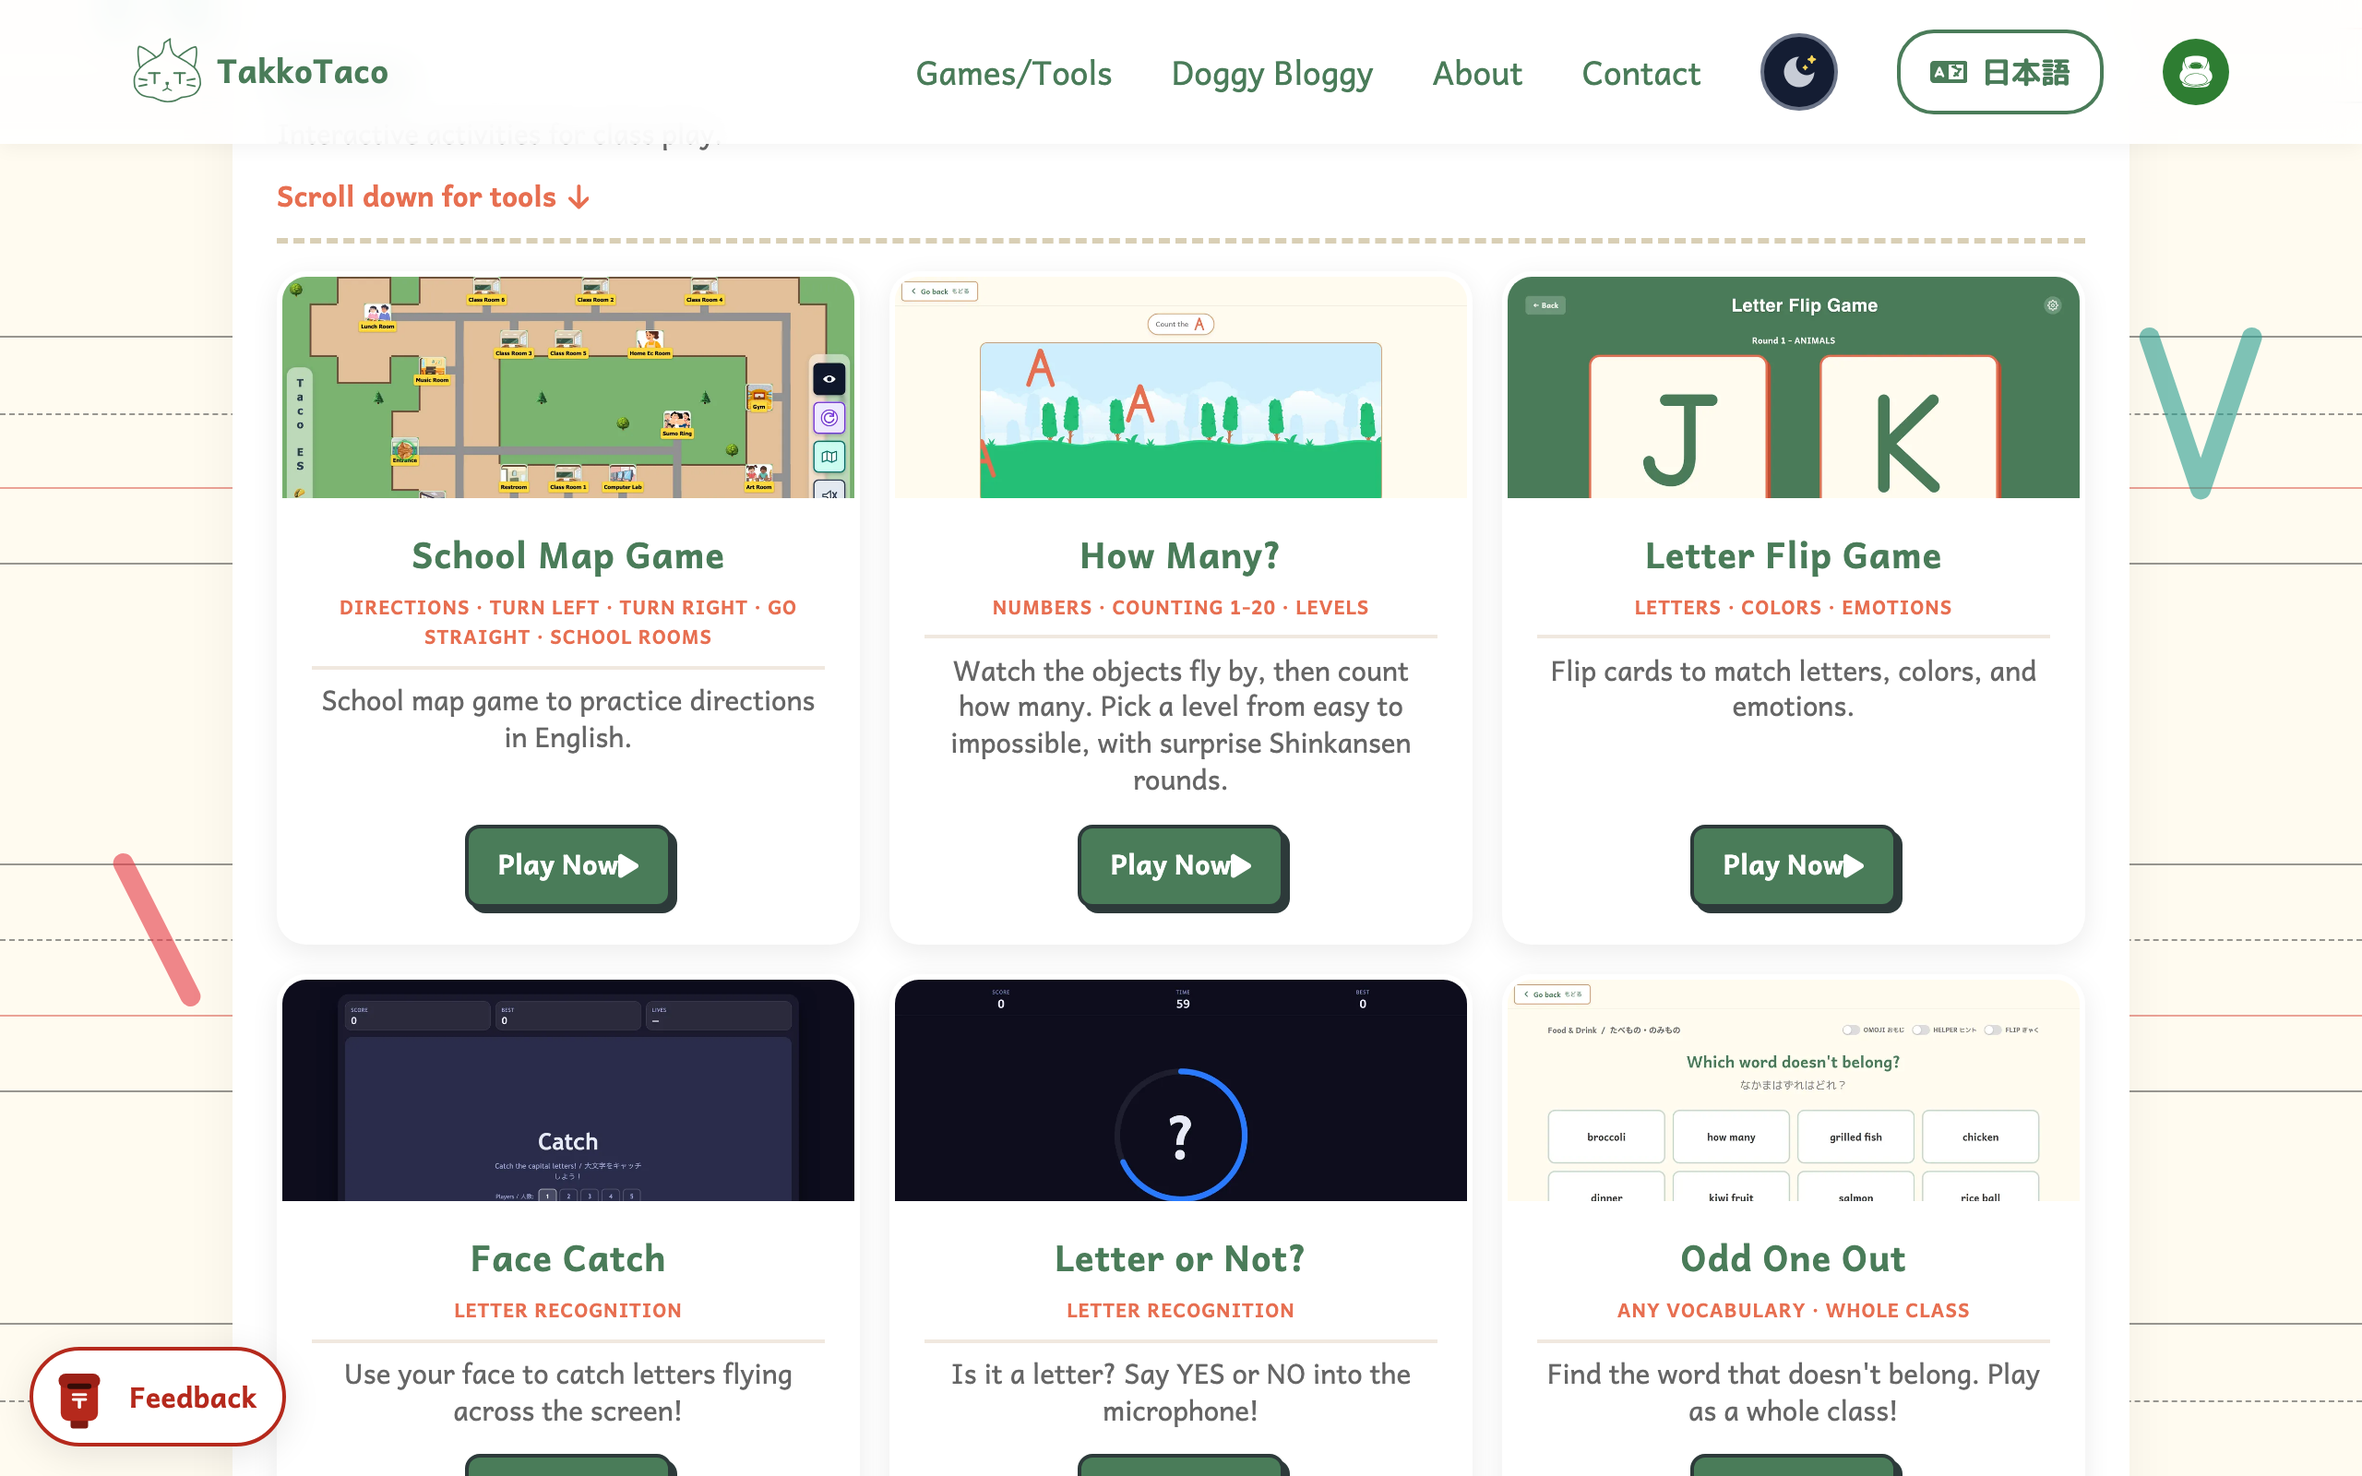
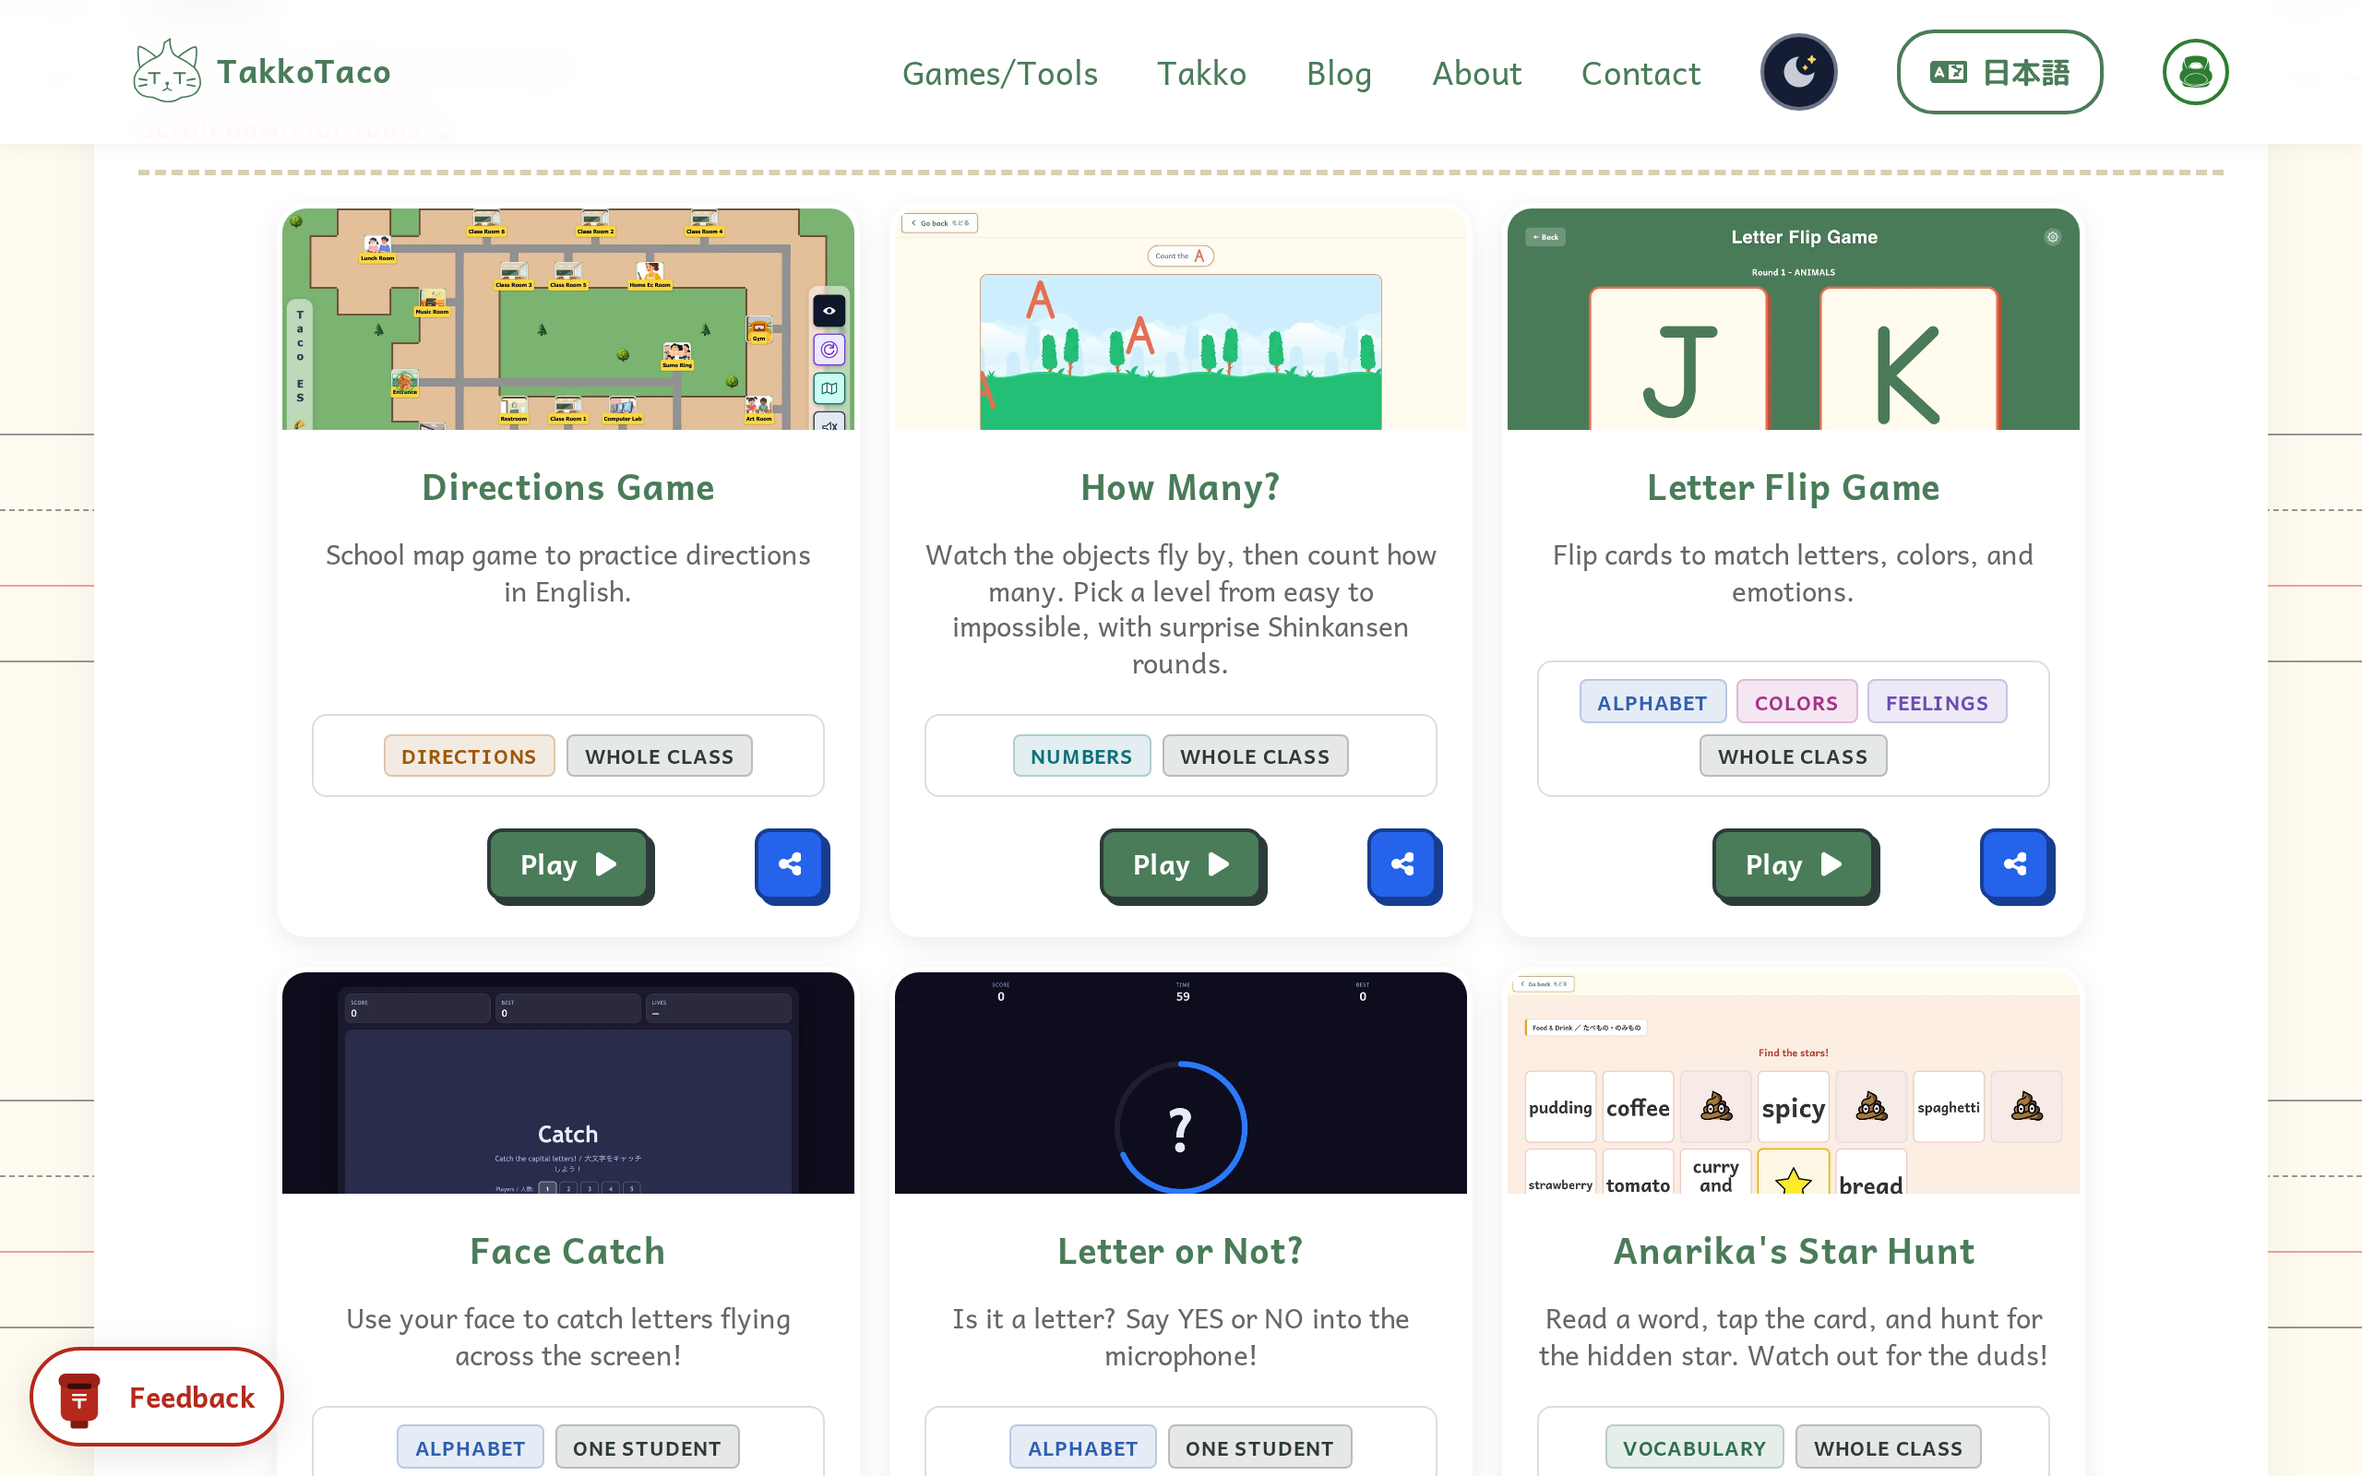
fixes and minor updates

diff --git a/src/data/resume.ts b/src/data/resume.ts
@@ -37,6 +37,8 @@ export interface AboutContent {
   town: string;
   /** Display location (region), shown after the town. */
   location: string;
+  /** Relocation line shown under the location in the sidebar. */
+  relocation: string;
   /** The About section, one string per paragraph. */
   paragraphs: string[];
   /** Alt text for the About photo (matches the page language). */
@@ -49,7 +51,8 @@ export interface ExperienceItem {
   role: string;
   org: string;
   start: string;
-  end: string;
+  /** Omit for a short stint whose `start` already says it all. */
+  end?: string;
   bullets: string[];
   /** Optional org logo path (under /logos), shown as a small chip. */
   logo?: string;
@@ -101,15 +104,16 @@ export const contact: Contact = {
 export const resume: Record<Lang, ResumeContent> = {
   en: {
     about: {
-      role: 'IT & Web Development',
-      tagline: 'I build and tinker across tech, from infrastructure to the web.',
+      role: 'Cloud & Network Support',
+      tagline: 'I troubleshoot systems, from the network up to the cloud, and build things to understand them better.',
       town: 'Takko',
       location: 'Aomori, Japan',
+      relocation: 'Open to relocating anywhere in Japan',
       imageAlt: 'Cristian planting rice with local students at a community rice-planting class in Aomori',
       summary:
-        'Cristian Valdez is an American IT professional based in Aomori, Japan, working across infrastructure, support, and web development. Business-level Japanese (JLPT N2).',
+        'Cristian Valdez troubleshoots systems from the network up to the cloud. American IT professional based in Aomori, Japan, CCNA certified, with business-level Japanese (JLPT N2). Open to relocating anywhere in Japan.',
       paragraphs: [
-        "I'm an American living in Aomori, Japan. I came over in 2023 to teach on the <a href=\"https://jetprogramme.org\">JET Programme</a>, but I never stopped making things and messing with tech on the side. Personal projects have been a constant the whole time, and I keep learning whatever a project needs or whatever I happen to be curious about. As my time on JET comes to a close, I'm looking to move back into tech here in Japan, whether that's IT support, infrastructure, or web development.",
+        "I'm an American living in Aomori, Japan. I came over in 2023 to teach on the <a href=\"https://jetprogramme.org\">JET Programme</a>, but I never stopped making things and messing with tech on the side. Personal projects have been a constant the whole time, and I keep learning whatever a project needs or whatever I happen to be curious about. As my time on JET comes to a close, I'm looking to move back into tech here in Japan, in IT support, networking, or cloud infrastructure, and I'm open to relocating anywhere in the country.",
         "Mostly I just build things for myself: whatever would actually be useful, or whatever I want to understand better. That might be <a href=\"https://takkotaco.com/game/\">tools for the classroom</a>, a place to <a href=\"https://bloggydoggy.com\">express myself</a>, or a quick fix for something annoying, like a Chrome extension or a custom keyboard. I like being able to customize and tinker, and I'm not satisfied until I get something exactly how I want it.",
         "Outside of work you'll usually find me lifting or running, taking part in local groups like the badminton team or ceramics club, and helping out at community events like the <a href=\"https://bloggydoggy.com/blog/3d-printing-culture-festival/\">culture festival</a>, or running my own, like <a href=\"https://bloggydoggy.com/blog/pasta-time/\">cooking classes</a> and a hands-on electronics class.",
       ],
@@ -142,8 +146,7 @@ export const resume: Record<Lang, ResumeContent> = {
       {
         role: 'Intern - JET Programme Internship',
         org: 'oRo Miyazaki',
-        start: 'Sep 7',
-        end: 'Sep 11, 2026',
+        start: 'Sep 2026 (1 week)',
         logo: oroLogo,
         orgUrl: 'https://www.oro-miyazaki.com/',
         bullets: [
@@ -193,7 +196,7 @@ export const resume: Record<Lang, ResumeContent> = {
       {
         title: 'AWS Solutions Architect Associate (SAA-C03)',
         org: 'Amazon Web Services',
-        date: 'Target 2026',
+        date: 'Target Nov 2026',
         inProgress: true,
         logo: awsLogo,
         orgUrl: 'https://aws.amazon.com/certification/certified-solutions-architect-associate/',
@@ -241,15 +244,16 @@ export const resume: Record<Lang, ResumeContent> = {
 
   ja: {
     about: {
-      role: 'IT・Web開発',
-      tagline: 'インフラからウェブまで、いろいろ作ったり、いじったりしています。',
+      role: 'クラウド・ネットワークサポート',
+      tagline: 'ネットワークからクラウドまで、システムのトラブルを解決しています。仕組みを理解するために、自分でもいろいろ作っています。',
       town: '田子町',
       location: '青森県、日本',
+      relocation: '日本国内どこでも転居可能',
       imageAlt: '青森の地域の田植え教室で、地元の生徒たちと田植えをするクリスチャン',
       summary:
-        'Cristian Valdez（クリスチャン・バルデス）は、青森県を拠点に、インフラ・サポート・ウェブ開発まで幅広く手がけるアメリカ出身のITエンジニアです。ビジネスレベルの日本語（JLPT N2）。',
+        'Cristian Valdez（クリスチャン・バルデス）は、ネットワークからクラウドまで、システムのトラブル解決に取り組むアメリカ出身のITエンジニアです。青森県在住、CCNA取得、ビジネスレベルの日本語（JLPT N2）。日本国内であればどこへでも転居可能です。',
       paragraphs: [
-        '青森県に住んでいる、アメリカ出身です。2023年に<a href="https://jetprogramme.org">JETプログラム</a>の外国語指導助手として来日しましたが、その後もものづくりや技術いじりの手を止めることはありませんでした。個人プロジェクトはずっと続けてきていて、プロジェクトに必要なことや、その時々で気になったことを学び続けています。JETでの任期が終わりに近づいた今、日本でITの世界へ戻ろうと考えていて、ITサポート、インフラ、ウェブ開発まで幅広く視野に入れています。',
+        '青森県に住んでいる、アメリカ出身です。2023年に<a href="https://jetprogramme.org">JETプログラム</a>の外国語指導助手として来日しましたが、その後もものづくりや技術いじりの手を止めることはありませんでした。個人プロジェクトはずっと続けてきていて、プロジェクトに必要なことや、その時々で気になったことを学び続けています。JETでの任期が終わりに近づいた今、日本でITの世界へ戻ろうと考えていて、ITサポート、ネットワーク、クラウドインフラの分野を目指しています。日本国内であれば、どこへでも転居できます。',
         '基本的には、自分のために物を作っています。実際に役立つものだったり、もっと深く理解したいと思ったものだったりです。たとえば<a href="https://takkotaco.com/game/">授業で使えるツール</a>だったり、<a href="https://bloggydoggy.com">自分を表現する場所</a>だったり、Chrome拡張機能や自作キーボードのように、ちょっとした面倒を解決するものだったりします。自分好みにカスタマイズしたり、いじったりするのが好きで、思い通りになるまで納得できない性格です。',
         '仕事以外では、筋トレやランニングをしたり、地元のサークル（バドミントンや陶芸）に参加したりしています。<a href="https://bloggydoggy.com/blog/3d-printing-culture-festival/">文化祭</a>のような地域のイベントを手伝ったり、<a href="https://bloggydoggy.com/blog/pasta-time/">料理教室</a>や電子工作の体験教室のように、自分でイベントを開くこともあります。',
       ],
@@ -282,8 +286,7 @@ export const resume: Record<Lang, ResumeContent> = {
       {
         role: 'インターン（JETプログラム）',
         org: '株式会社オロ宮崎',
-        start: '2026年9月7日',
-        end: '9月11日',
+        start: '2026年9月（1週間）',
         logo: oroLogo,
         orgUrl: 'https://www.oro-miyazaki.com/',
         bullets: [
@@ -333,7 +336,7 @@ export const resume: Record<Lang, ResumeContent> = {
       {
         title: 'AWS Solutions Architect Associate（SAA-C03）',
         org: 'Amazon Web Services',
-        date: '2026年取得予定',
+        date: '2026年11月取得予定',
         inProgress: true,
         logo: awsLogo,
         orgUrl: 'https://aws.amazon.com/certification/certified-solutions-architect-associate/',

diff --git a/.claude/CLAUDE.md b/.claude/CLAUDE.md
@@ -120,10 +120,17 @@ Read the relevant official guide before changing these areas:
   frontmatter only, including `nameJa`, `taglineJa`, and `cardImage`.
 - **Project case studies:** bespoke pages at
   `src/pages/projects/{takkotaco,bloggydoggy}.astro`. Their labelled pillar
-  structure is intentional. Keep claims tied to shipped work: Takko's rough ABC
-  race multiplayer is not a portfolio feature.
-- **Blog posts:** `src/content/blog/*.md` (set `draft: true` to hide). RSS at
-  `/rss.xml`. Posts + full case-study bodies are English-only for now.
+  structure is intentional. Keep claims tied to shipped work: Takko's ABC race
+  multiplayer is not a portfolio feature, and its live class quiz (Kabloo, a
+  placeholder name) stays the Durable Objects architecture row, unnamed, until
+  it launches. Re-verify counts (games, dialect entries, grammar points) against
+  the takkotaco repo before editing.
+- **Blog: hidden** (Oct 2026, the owner is not writing for now). Routes are
+  `src/pages/_blog/` and `src/pages/_rss.xml.ts`; the underscore makes Astro
+  skip them. Posts live in `src/content/blog/`. To unhide: drop the
+  underscores, restore the Writing links (homepage topbar, `Nav.astro`, 404)
+  and the RSS `<link>` in `BaseLayout.astro`, and replace the placeholder
+  `welcome` post. Posts + full case-study bodies are English-only for now.
 - **Design tokens / global CSS:** `src/styles/global.css` (never hardcode color).
 - **Homepage:** `src/components/Home.astro` (split-sidebar, rendered by
   `src/pages/index.astro` en + `src/pages/ja/index.astro` ja).
@@ -183,15 +190,16 @@ always this.
 ## SEO
 
 Every page renders through a layout that includes `src/components/Seo.astro`
-(canonical, Open Graph, Twitter, JSON-LD Person schema). Set a unique title +
+(canonical, Open Graph, Twitter, JSON-LD Person schema). The default share card
+`public/og/default.png` repeats the headline, tagline, and photo as pixels, so
+regenerate it when those change. Write internal links with a trailing slash
+(`/projects/x/`, `/ja/`): the Worker 307-redirects the bare form. Set a unique title +
 description per page. `site` must stay set in `astro.config.mjs`. The sitemap is
 auto-generated; dev/preview pages go in `NOINDEX_ROUTES` (astro.config) AND get
 a noindex meta AND go in `public/robots.txt`.
 
 ## TODO
 
-- [ ] **Fill in real content** - resume tweaks and real blog posts. Replace the
-  placeholder `welcome` post.
 - [ ] **Prose voice audit** - the case-study prose reads as AI-written in
   places. Two tells run through both pages: the "The benefit is X. The limit is
   Y." template repeated across every Architecture paragraph, and a constant
@@ -203,12 +211,9 @@ a noindex meta AND go in `public/robots.txt`.
 - [ ] **Screenshot upgrades (optional)** - review the current real feature
   shots and reshoot only with the owner's approval. Face Catch includes the
   unidentifiable back of a coworker's head.
-- [ ] **Regenerate `public/favicon.ico`** - the SVG favicon is the new クリス
-  hanko, but the legacy `.ico` fallback (auto-requested at `/favicon.ico`) is
-  still the old green CV tile. Rasterize the hanko to a multi-size `.ico` (sharp /
-  ImageMagick) so old browsers match.
-- [ ] **OG share image** - branded 1200x630 `public/og/default.png` via sharp;
-  `Seo.astro` already emits image tags when an `image` is passed. Wire a default.
+- [ ] **AWS SAA result** - exam due late Oct / early Nov 2026. On a pass, flip
+  the credential in `resume.ts` (drop `inProgress`, add the Credly link) and
+  update the headline / OG image if the positioning changes.
 - [ ] **Accessibility sweep + Lighthouse** - landmarks, heading order, contrast,
   focus, labels. Full Lighthouse run against the deployed site.
 - [ ] **Print styles for the new homepage** - the split-sidebar home dropped
